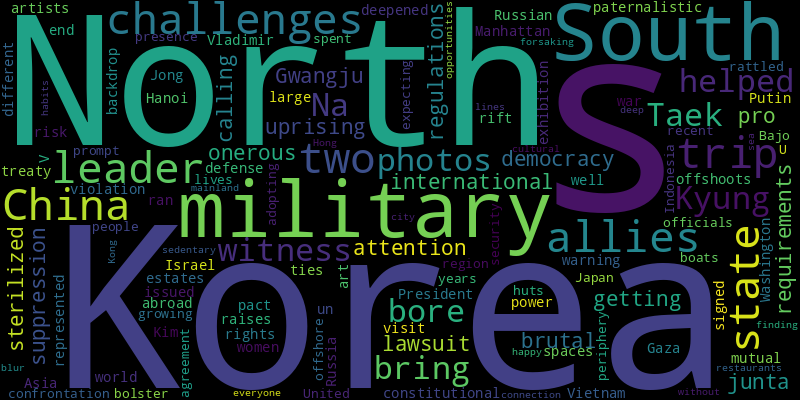
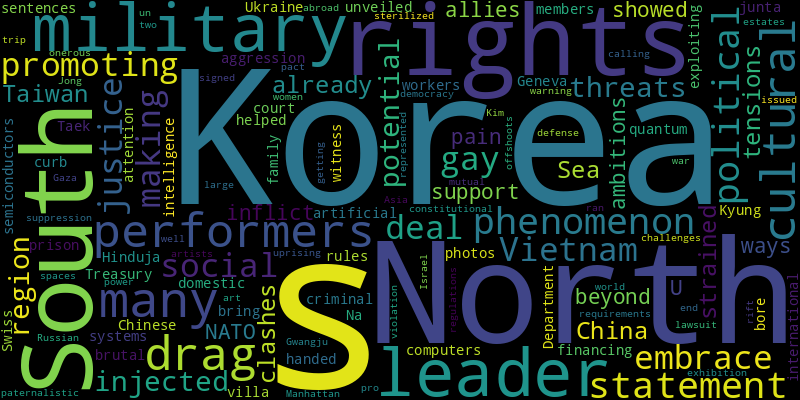
chore(bot): 🟩 auto commit

diff --git a/README.md b/README.md
@@ -2,41 +2,41 @@
 Auto RSS New York Times and Generate Word Cloud
 
 ## New York Times Global News
-* The Israeli leader’s quarrels with the White House, his military and his coalition partners have escalated at a pivotal time in the war in Gaza.
-* In less than five years, the opposition Labour Party has gone from massive defeat to the favorite to win next month’s election. How did they do it?
-* A lawsuit challenges the onerous requirements for getting sterilized, calling the regulations paternalistic and a violation of women’s constitutional rights.
-* A special presidential election campaign is featuring blistering attacks on the status quo by conservatives and the lone reformer alike.
-* An attack on a 12-year-old Jewish girl is inflaming an already tense and divisive situation.
-* Na Kyung Taek’s photos bore witness — and helped bring international attention — to the military junta’s brutal suppression of a pro-democracy uprising in Gwangju, South Korea, in 1980.
-* While the agreement rattled officials in South Korea and Japan, the two U.S. allies in recent years have been expecting growing security challenges from North Korea.
-* The state visit by President Vladimir V. Putin of Russia to Vietnam had a very different backdrop than his trip to North Korea, as Hanoi has deepened ties with Washington.
-* The treaty raises the risk of confrontation in the region and could prompt the United States and its allies to bolster their military presence on China’s periphery.
-* Indonesia’s Bajo people, who once spent most of their lives in boats or offshore huts, are adopting more sedentary habits, but without forsaking their deep connection to the sea.
+* For many performers, drag is not only a cultural phenomenon, but also a political statement promoting social justice and gay rights.
+* A soccer championship has doubled as a test of identity for millions of Germans with Turkish roots. For many, picking one team to support was an easy decision.
+* The next Mexican president’s years of living in California provide insight into how she will handle key issues in Mexico-Washington ties.
+* The pope used homophobic slang and cautioned prelates about admitting gay men into seminaries. But ordination has also long been a refuge for gay faithful.
+* His embrace of North Korea and deal making with Vietnam injected more potential threats into a region already strained by Taiwan tensions and South China Sea clashes.
+* His support for North Korea’s military ambitions showed he can inflict pain on the U.S. and its NATO allies in ways beyond aggression in Ukraine.
+* The inspections in Michoacán, the Mexican state responsible for most avocado exports to the U.S., were suspended last weekend because of security concerns.
+* As many as 25 people were killed and 50 wounded on Friday in a strike in Al-Mawasi, in southern Gaza near the city of Rafah, according to aid agencies and Gazan health officials.
+* Israeli judges have long ruled that Israel’s control of the territory is a temporary military occupation and complies with international law. A powerful minister’s recent speech, caught on tape, suggested the government is trying to change that.
+* Fearful that conscription is a one-way ticket to bloody trench warfare, the men spend their days holed up at home to avoid draft officers who roam the streets.
 
 ![Global](./global.png)
 ## New York Times United States News
-* One report documented antisemitic threats. The other, anti-Muslim threats. Both signaled that there may be little room for agreement.
-* On a night that honored the Negro leagues and Mays, who died on Tuesday, a baseball game between the Giants and the Cardinals was almost beside the point.
-* Montana’s suicide rate has been the highest in the U.S. for the past three years. Most of the deaths involved firearms. But suicide rarely registers in the national debate over guns.
-* “Are you sitting down?” Vermont’s state botanist asked a fellow plant expert after spotting false mermaid-weed last month.
+* Gov. Jeff Landry wants his state to be at the forefront of a national movement to advance legislation with a Christian worldview.
+* The challenges from defendants charged with trying to overturn the 2020 election will be a test case for a new but little-known state law aimed at curbing political prosecutions.
+* Voters recalled a Southern California school board president after his conservative majority approved policies on critical race theory and transgender issues.
+* The decades-long friendship of two men who never especially changed.
 * The Constitution and U.S. law have clear answers for only some of the questions raised by the criminal conviction of a major presidential candidate.
 * The former president could face probation or prison time. Either option would be without precedent.
 * Donald J. Trump has promised to appeal, but he may face limits on his ability to travel and to vote as he campaigns for the White House.
-* California is the latest state to try to regulate the devices. But how far should the ban go? And will parents sign on?
-* Stephen K. Bannon is scheduled to start a four-month prison term on July 1 unless the Supreme Court intervenes.
-* Just two months ago, President Biden appeared to have a daunting financial advantage. Then Donald Trump was convicted of 34 felonies, and Republicans’ wallets opened.
+* A museum on the history of antisemitism will be part of the new building, alongside a memorial to the 11 worshipers killed in the 2018 attack in Pittsburgh.
+* President Biden has a diverse group of advisers, but few have the influence of three men in his inner circle during his final campaign.
+* A $20 million program will give financial restitution to students who endured abuse and neglect at the hands of the state.
 
 ![US](./usnews.png)
 ## New York Times Asia News
+* For many performers, drag is not only a cultural phenomenon, but also a political statement promoting social justice and gay rights.
+* His embrace of North Korea and deal making with Vietnam injected more potential threats into a region already strained by Taiwan tensions and South China Sea clashes.
+* His support for North Korea’s military ambitions showed he can inflict pain on the U.S. and its NATO allies in ways beyond aggression in Ukraine.
+* The Treasury Department unveiled rules to curb financing of Chinese semiconductors, quantum computers and artificial intelligence systems.
+* A Swiss criminal court handed prison sentences to members of the Hinduja family for exploiting domestic workers at their villa in Geneva.
 * Na Kyung Taek’s photos bore witness — and helped bring international attention — to the military junta’s brutal suppression of a pro-democracy uprising in Gwangju, South Korea, in 1980.
 * A lawsuit challenges the onerous requirements for getting sterilized, calling the regulations paternalistic and a violation of women’s constitutional rights.
 * Also, a rift in Israel over the war in Gaza.
 * The Russian leader issued the warning at the end of a trip to Asia, during which he signed a mutual defense pact with North Korea’s leader, Kim Jong-un.
 * An art world power, she represented more than 70 artists and estates and ran two large exhibition spaces in Manhattan as well as offshoots abroad.
-* The state visit by President Vladimir V. Putin of Russia to Vietnam had a very different backdrop than his trip to North Korea, as Hanoi has deepened ties with Washington.
-* The treaty raises the risk of confrontation in the region and could prompt the United States and its allies to bolster their military presence on China’s periphery.
-* While the agreement rattled officials in South Korea and Japan, the two U.S. allies in recent years have been expecting growing security challenges from North Korea.
-* Indonesia’s Bajo people, who once spent most of their lives in boats or offshore huts, are adopting more sedentary habits, but without forsaking their deep connection to the sea.
-* As the cultural lines between Hong Kong and China blur, restaurants from the mainland are finding opportunities in the city. But not everyone is happy.
 
 ![Asian](./asian.png)
